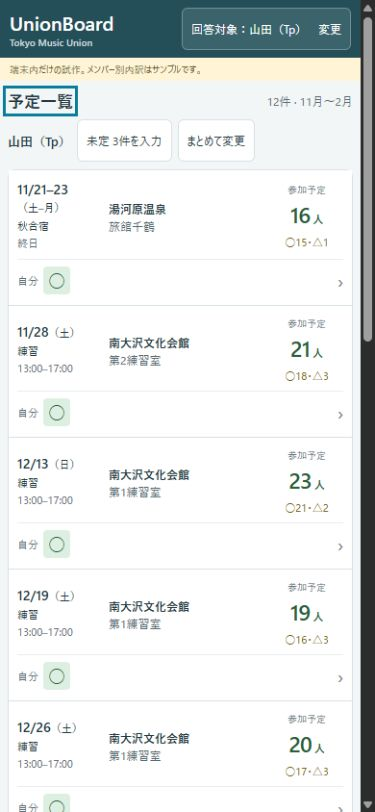
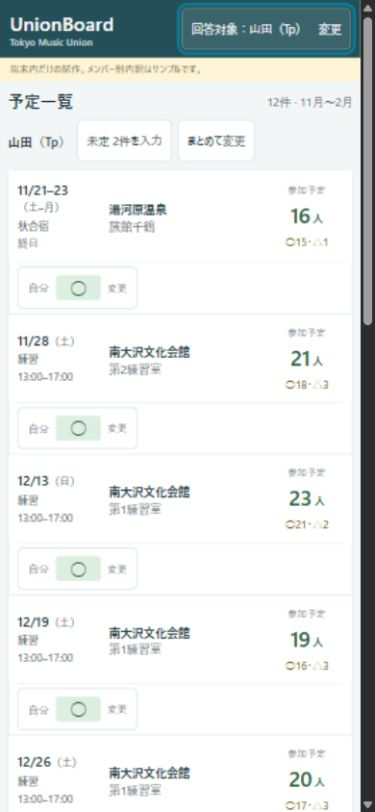
自分の回答から選択と日別編集を直接開く

diff --git a/docs/prototypes/mobile-study/v4/index.html b/docs/prototypes/mobile-study/v4/index.html
@@ -3,7 +3,9 @@
 :root{font:16px system-ui,'Yu Gothic',sans-serif;color:#233942;background:#f3f6f7;--ink:#254f58;--line:#d7e1e4;--yes:#dcefe1;--late:#fff0ba;--no:#f6dbe2;--unknown:#eceff2}*{box-sizing:border-box}[hidden]{display:none!important}body{margin:0;min-block-size:100dvh;overflow-wrap:anywhere}button,input,select,textarea{font:inherit;color:inherit}button,select{min-inline-size:44px;min-block-size:44px;border:1px solid var(--line);border-radius:6px;background:#fff;padding:7px 9px}button{cursor:pointer}button:disabled{opacity:.5;cursor:default}:where(a,button,input,select,textarea,[tabindex]):focus-visible{outline:3px solid #087e9a;outline-offset:2px}p{line-height:1.6;margin:6px 0}h1,h2,h3{margin:0;text-wrap:balance}h1{font-size:20px}h2{font-size:17px}h3{font-size:15px}header{background:var(--ink);color:white;display:flex;justify-content:space-between;align-items:center;gap:7px;padding:8px max(10px,env(safe-area-inset-right,0px)) 8px max(10px,env(safe-area-inset-left,0px))}header small{display:block;font-size:10px;color:#c9dadd}header button{background:#3b636c;border-color:#708f97;color:white;font-size:12px;max-inline-size:62%}.sample{font-size:10px;background:#fff4d5;color:#695b31;margin:0;padding:4px 10px}main{max-inline-size:850px;margin:auto;padding:0 8px 28px;container:board / inline-size}.modes{display:flex;gap:5px;margin:9px 0}.modes button{flex:1;font-size:13px;font-weight:700}.modes [aria-pressed=true]{background:#e2edef;border:2px solid var(--ink)}.heading,.panel-head,.crumb{display:flex;align-items:center;justify-content:space-between;gap:5px;margin:10px 0 7px}.muted{font-size:12px;color:#586c75}.toolbar,.links{display:flex;gap:6px;align-items:center;flex-wrap:wrap;margin:8px 0}.toolbar button,.links button,.links a{font-size:12px}.toolbar strong{font-size:13px}.primary{background:var(--ink);color:white;border-color:var(--ink)}.schedule{width:100%;table-layout:fixed;border-collapse:separate;border-spacing:0;background:white;border:1px solid var(--line);border-radius:8px;font-size:12px}.schedule caption{text-align:start;font-size:11px;color:#5d7079;caption-side:bottom;padding:6px 0}.schedule thead th{position:sticky;inset-block-start:0;background:#e8eff1;z-index:3;font-size:11px}.schedule th,.schedule td{text-align:start;vertical-align:middle;border-bottom:1px solid var(--line);padding:9px 5px}.schedule tbody th{font-weight:400}.schedule th:first-child{width:96px}.schedule th.count-col{width:78px;text-align:center}.schedule th.self-col{width:57px;text-align:center}.date{font-size:15px;font-weight:750;line-height:1.3}.weekday{font-size:11px;font-weight:400}.event-title{font-size:11px;line-height:1.3;margin-top:4px}.time{font-size:11px;color:#52666e;margin-top:2px;line-height:1.5}.place{font-size:12px;font-weight:650;line-height:1.5}.room{display:block;font-size:12px;font-weight:400;color:#536970}.schedule .count-cell{padding:3px}.count-button{width:100%;border:0;background:none;padding:4px 2px;min-block-size:64px;line-height:1.1}.count-main{display:block;font-size:24px;font-weight:750;letter-spacing:-.04em;color:#295e3a}.count-main small{font-size:11px;font-weight:500;letter-spacing:0}.count-sub{display:block;font-size:11px;color:#76580a;margin-top:6px}.count-caption{display:block;font-size:10px;color:#5c747a;margin-top:5px}.self-cell{padding:4px!important;text-align:center!important}.self-button{font-size:22px;inline-size:47px;min-block-size:48px;padding:2px;border-color:#b5cad0}.self-button.unselected{font-size:11px}.self-heading{border:0;background:none;font-size:10px;line-height:1.4;padding:0;width:100%}.performer th:first-child{width:83px}.performer .date{font-size:14px}.performer th.count-col{width:66px}.performer .count-main{font-size:22px}.selected-row>th,.selected-row>td{background:#edf4f4}.expanded-cell{padding:0!important;background:#f3f8f8}.panel{padding:10px 9px;border-block-start:2px solid #638e97}.panel-head{align-items:start;margin-top:0}.panel-head h3{margin-top:7px}.panel-head button{font-size:12px;flex-shrink:0}.detail-note{font-size:11px;color:#60757d;margin:7px 0}.part-list{margin:6px 0 10px}.part-row{display:grid;grid-template-columns:76px 1fr;align-items:center;background:white;border-bottom:1px solid var(--line)}.part-row dt{padding:0 5px}.part-row dt button{width:100%;text-align:start;border:0;background:none;padding:4px;font-size:14px}.part-row dt small{font-size:10px;color:#60757d}.part-row dd{display:grid;grid-template-columns:repeat(4,1fr);gap:3px;margin:0;padding:5px 5px 5px 0}.stat{display:inline-flex;align-items:center;justify-content:center;gap:3px;padding:6px 3px;border-radius:4px;font-size:13px;min-block-size:34px}.yes{background:var(--yes);color:#2a5938}.late{background:var(--late);color:#6d530c}.no{background:var(--no);color:#79344b}.unknown{background:var(--unknown);color:#56616c}.member-list{list-style:none;margin:6px 0;padding:0}.member-list li{display:flex;align-items:center;justify-content:space-between;gap:8px;background:white;padding:3px 6px;border-bottom:1px solid var(--line)}.member-list button{border:0;background:none;text-align:start;font-size:13px}.answer{font-size:13px;padding:5px 9px;border-radius:4px}.event-summary{background:white;padding:12px;border:1px solid var(--line);border-radius:8px;margin-bottom:8px}.event-summary h2{font-size:20px}.event-summary .place{font-size:14px;margin-top:6px;display:block}.counts{display:flex;gap:6px;flex-wrap:wrap;margin-top:8px}.crumb{justify-content:start}.crumb button{font-size:12px}.links{margin-top:14px}.links a{display:inline-flex;align-items:center;min-block-size:44px;padding:6px 8px;color:#315d69}.legend{font-size:11px;color:#566b74;line-height:1.7;margin:8px 0}.lab{margin-top:18px;border-top:1px dashed var(--line);padding-top:6px}.lab summary{min-block-size:44px;display:flex;align-items:center;cursor:pointer;font-size:12px}.lab label{display:flex;align-items:center;gap:7px;font-size:12px;margin:7px 0}.lab select{flex:1;max-inline-size:220px}.status{font-size:12px;color:#2c6251;line-height:1.5}.status:not(:empty){background:#e7f1e8;padding:7px;margin:7px 0}.save-note{font-size:11px;background:#fff2cd;padding:7px}.skip{position:absolute;inset-block-start:-120px;inset-inline-start:7px;z-index:30;background:white;padding:12px}.skip:focus{inset-block-start:3px}dialog{width:calc(100% - 20px);max-inline-size:550px;max-block-size:90vh;max-block-size:90dvh;border:0;border-radius:12px;padding:0;color:inherit;box-shadow:0 10px 45px #153b4b40}dialog[open]{display:flex;flex-direction:column}dialog:modal{overscroll-behavior:contain}dialog::backdrop{background:#193d50a3;overflow:hidden;overscroll-behavior:contain}.dialog-head{display:flex;justify-content:space-between;align-items:center;gap:8px;padding:11px 12px 7px;flex-shrink:0}.dialog-head h2{font-size:17px}.dialog-head button{font-size:12px;flex-shrink:0}.dialog-body{overflow:auto;overscroll-behavior:contain;padding:0 12px 12px;min-block-size:0}.field{display:grid;gap:5px;margin:10px 0}.field label{font-size:13px;font-weight:650}.field select{width:100%}.check{display:flex;align-items:center;gap:7px;min-block-size:44px;font-size:13px}input[type=checkbox]{width:23px;height:23px;accent-color:var(--ink)}.editor-row{border:0;border-bottom:1px solid var(--line);margin:0;padding:12px 0}.editor-row legend{font-size:15px;font-weight:700;padding:0}.editor-meta{display:flex;justify-content:space-between;align-items:start;gap:4px;font-size:11px;margin:3px 0 7px;line-height:1.5}.editor-meta strong{font-weight:500}.choices{display:grid;grid-template-columns:repeat(4,1fr);gap:5px}.choices button{font-size:20px;padding:4px;min-block-size:47px;min-inline-size:44px}.choices button[aria-pressed=true]{outline:2px solid var(--ink);outline-offset:-3px;font-weight:750}.choices small{display:block;font-size:10px;font-weight:400}.editor-row.changed{background:#fffbef}.dialog-foot{border-top:1px solid var(--line);padding:8px 12px max(8px,env(safe-area-inset-bottom,0px));background:white;display:flex;align-items:center;justify-content:space-between;gap:6px;flex-wrap:wrap;flex-shrink:0}.dialog-foot button{font-size:13px}.dialog-foot span{font-size:12px}.editor-filter{display:flex;gap:5px;align-items:center;flex-wrap:wrap;margin:5px 0 9px}.editor-filter button{font-size:12px}.editor-filter [aria-pressed=true]{background:#e1edef;border-color:#5c858e}textarea{width:100%;min-block-size:90px;font-size:16px;padding:9px;border:1px solid var(--line);border-radius:6px}.comment{font-size:13px;white-space:pre-wrap;padding:8px 0;border-bottom:1px solid var(--line)}.matrix-wrap{max-block-size:55vh;overflow:auto;border:1px solid var(--line);border-radius:6px;overscroll-behavior:contain;scroll-padding-inline-start:124px}.matrix{border-collapse:separate;border-spacing:0;font-size:12px;background:white}.matrix th,.matrix td{border-bottom:1px solid var(--line);border-right:1px solid var(--line);padding:5px;text-align:center;min-inline-size:32px}.matrix thead th{position:sticky;top:0;background:#e7eef0;z-index:2;font-size:10px}.matrix tbody th{position:sticky;left:0;background:white;min-inline-size:124px;max-inline-size:124px;z-index:1;font-size:10px;text-align:start}.matrix thead th:first-child{left:0;z-index:4}.matrix th button{font-size:10px;border:0;padding:1px;background:none;min-inline-size:44px}.matrix td{font-size:15px}.matrix caption{text-align:start;padding:6px;font-size:11px;color:#566b73}.person-table{border-collapse:collapse;width:100%;font-size:12px}.person-table td,.person-table th{border-bottom:1px solid var(--line);padding:8px;text-align:start}.person-table th{font-weight:500}.person-table td:last-child{font-size:19px;text-align:center}.person-table caption{text-align:start;font-size:11px;padding:6px 0}.search{min-block-size:44px;width:100%;font-size:16px;border:1px solid var(--line);border-radius:6px;padding:8px}.people-find{list-style:none;margin:5px 0;padding:0}.people-find li{border-bottom:1px solid var(--line)}.people-find button{width:100%;text-align:start;border:0}@container board (inline-size > 650px){.schedule th:first-child,.performer th:first-child{width:150px}.schedule th.count-col{width:120px}.schedule th.self-col{width:90px}.date,.performer .date{font-size:17px}.place,.room,.performer .place,.performer .room{font-size:14px}.event-title,.time,.performer .time{font-size:12px}.part-list{max-inline-size:520px}.schedule th,.schedule td{padding:10px}.count-button{max-inline-size:100px}.self-heading{font-size:12px}}@container board (inline-size < 330px){.schedule th:first-child{width:89px}.schedule th.count-col{width:68px}.performer th:first-child{width:76px}.performer th.count-col{width:59px}.performer th.self-col{width:51px}.schedule th,.schedule td{padding:8px 3px}.place,.room{font-size:11px}.date{font-size:14px}.self-button{inline-size:44px}.count-main{font-size:22px}.part-row{grid-template-columns:64px 1fr}.stat{font-size:12px;padding-inline:2px}}@media(forced-colors:active){.choices [aria-pressed=true]{outline:3px solid Highlight}}@media(prefers-reduced-motion:reduce){*{scroll-behavior:auto!important}}
 
 .cassettes{list-style:none;padding:0;margin:8px 0;border:1px solid var(--line);border-radius:8px;background:white}.cassettes li+li{border-top:1px solid var(--line)}.cassette{display:grid;grid-template-columns:94px minmax(0,1fr) 82px 72px;align-items:center;gap:8px;width:100%;border:0;border-radius:0;text-align:start;background:white;padding:12px 10px;font-weight:400}.cassette:hover{background:#edf5f5}.cassette:focus-visible{outline-offset:-3px}.cassette-count{text-align:center}.cassette .count-caption{display:none}.cassette-self{display:flex;align-items:center;justify-content:end;gap:5px}.self-label{font-size:11px;color:#586c75}.cassette .self-button{display:inline-flex;align-items:center;justify-content:center;width:auto;min-width:26px;min-height:29px;border:0;border-radius:4px;font-size:18px;padding:2px 5px}.cassette .unselected{font-size:11px;background:#eceff2}.chevron{font-size:20px;color:#71838a}.cassette .place,.cassette .room{font-size:12px}.cassette .date{font-size:14px}.cassette .count-main{font-size:23px}.cassette .count-sub{white-space:nowrap}@container board (inline-size < 370px){.cassette{grid-template-columns:88px minmax(0,1fr) 76px;gap:7px;padding:11px 9px}.cassette-self{grid-column:1 / -1;justify-content:start;border-top:1px solid #e8edef;padding-top:7px;margin-top:1px}.cassette-self .chevron{margin-left:auto}.cassette .place,.cassette .room{font-size:12px}}
-.participant-label{font-size:10px;color:#587078;display:block;margin-bottom:3px}</style></head><body><a class="skip" href="#schedule-heading">予定一覧へ</a><header><h1>UnionBoard<small>Tokyo Music Union</small></h1><button id="identity-button">自分を選ぶ</button></header><p class="sample">端末内だけの試作。メンバー別内訳はサンプルです。</p><main id="app"></main><dialog id="dialog" aria-labelledby="dialog-title"><div class="dialog-head"><h2 id="dialog-title"></h2><button id="dialog-close" autofocus>閉じる</button></div><div class="dialog-body" id="dialog-body"></div><div class="dialog-foot" id="dialog-foot" hidden></div></dialog>
+.participant-label{font-size:10px;color:#587078;display:block;margin-bottom:3px}
+.cassette-wrap{position:relative}.cassette{padding-right:90px;grid-template-columns:94px minmax(0,1fr) 82px}.cassette>.chevron{display:none}.cassette-self{position:absolute;right:5px;top:50%;transform:translateY(-50%);border:1px solid var(--line);border-radius:6px;padding:5px;min-height:54px;min-width:72px;flex-wrap:wrap;justify-content:center;background:white}.cassette-self .self-label{width:100%;text-align:center}.cassette-self .self-button{font-size:18px;min-width:25px;min-height:25px;padding:1px 4px;border:0;border-radius:4px}.cassette-self .unselected{font-size:11px}.edit-hint{font-size:10px;color:#536d75}@container board (inline-size < 370px){.cassette-wrap{padding-bottom:54px}.cassette{padding-right:9px;grid-template-columns:88px minmax(0,1fr) 76px}.cassette-self{left:9px;right:auto;top:auto;bottom:5px;transform:none;min-height:44px;width:auto;gap:7px;padding:5px 10px;margin:0;border:1px solid var(--line)}.cassette-self .self-label{width:auto}.cassette-wrap:after{content:"";position:absolute;bottom:53px;left:9px;right:9px;border-top:1px solid #e8edef;pointer-events:none}}
+</style></head><body><a class="skip" href="#schedule-heading">予定一覧へ</a><header><h1>UnionBoard<small>Tokyo Music Union</small></h1><button id="identity-button">自分を選ぶ</button></header><p class="sample">端末内だけの試作。メンバー別内訳はサンプルです。</p><main id="app"></main><dialog id="dialog" aria-labelledby="dialog-title"><div class="dialog-head"><h2 id="dialog-title"></h2><button id="dialog-close" autofocus>閉じる</button></div><div class="dialog-body" id="dialog-body"></div><div class="dialog-foot" id="dialog-foot" hidden></div></dialog>
 <script>
 'use strict';
 const parts=[['Fl',4],['Cl',8],['Sax',3],['Hr',6],['Tp',5],['Tb',6],['Bass',4],['Perc',4]];
@@ -38,7 +40,7 @@ function countHTML(e){const c=count(e);return countStyle==='separate'?`<span cla
 function countLabel(e){const c=count(e);return `${eventName(e)} ${countStyle==='combined'?'参加予定'+(c[0]+c[1])+'人。':''}○出席${c[0]}人、△遅刻早退${c[1]}人。内訳を開く`;}
 function summary(e){const c=count(e);return `<section class="event-summary" aria-label="${eventName(e)}の概要"><h2>${events[e].date}（${events[e].week}） ${events[e].title}</h2><p class="muted">${events[e].time}</p>${place(e)}<div class="counts">${marks.map((v,i)=>`<span class="stat ${styles[i]}" data-summary="${e}:${i}">${v} ${fmt(c[i])}${c[i]?"人":""}</span>`).join('')}</div></section>`;}
 function panel(e){return `<section class="panel" id="panel-${e}" aria-labelledby="panel-title-${e}"><div class="panel-head"><h3 id="panel-title-${e}" tabindex="-1">${detailEvent===null?events[e].date+' '+events[e].title+'｜':''}${part?part==='all'?'全40人の回答':part+'の回答':'パート別の人数'}</h3>${detailEvent===null?`<button data-collapse="${e}">閉じる</button>`:''}</div><p class="detail-note">○出席／△遅刻・早退／×欠席／-未定・未回答。内訳はサンプル。</p>${part?`<div class="toolbar"><button data-back-parts="${e}">← パート別人数</button><strong>${part==='all'?'全員':part} ${members.filter(m=>part==='all'||m.part===part).length}人</strong></div><ul class="member-list">${members.filter(m=>part==='all'||m.part===part).map(m=>`<li><button data-person="${m.id}">${name(m.id)}</button><span class="answer ${statusClass(get(e,m.id))}" data-member-status="${e}:${m.id}">${get(e,m.id)} ${words[marks.indexOf(get(e,m.id))]}</span></li>`).join('')}</ul>`:`<div class="toolbar"><button data-part="all" data-for-event="${e}">全40人の○△×を見る</button></div><dl class="part-list">${parts.map(([p,n])=>`<div class="part-row"><dt><button data-part="${p}" data-for-event="${e}" aria-label="${p} ${n}人の回答を見る">${p} <small>${n}人 ›</small></button></dt><dd>${count(e,p).map((n,i)=>`<span class="stat ${styles[i]}" data-partstat="${e}:${p}:${i}" aria-label="${words[i]} ${n}人">${marks[i]} ${fmt(n)}</span>`).join('')}</dd></div>`).join('')}</dl>`}<div class="toolbar"><button data-comments="${e}">コメント ${data.comments[e].length}件</button>${self?`<button data-edit-one="${e}">${name(self)}の回答を変更</button>`:''}</div>${detailEvent===null?`<button data-collapse="${e}">内訳を閉じて予定一覧へ</button>`:''}</section>`;}
-function render(){const pending=self?events.filter((_,e)=>get(e,self)==='-').length:0;$('#identity-button').textContent=self?`回答対象：${name(self)}　変更`:'自分を選ぶ';document.title=detailEvent!==null?`${eventName(detailEvent)}｜UnionBoard試作`:'予定と自分の回答｜UnionBoard試作';if(detailEvent!==null){$('#app').innerHTML=`<div class="crumb"><button id="back-schedule">← 予定一覧</button></div>${summary(detailEvent)}${panel(detailEvent)}<p class="status" id="page-status" role="status"></p>`;return;}$('#app').innerHTML=`<div class="heading"><h2 id="schedule-heading" tabindex="-1">予定一覧</h2><span class="muted">12件 · 11月〜2月</span></div>${self?`<div class="toolbar"><strong>${name(self)}</strong><button id="edit-pending">${pending?'未定 '+pending+'件を入力':'全12日程を変更'}</button><button id="edit-all">まとめて変更</button></div>`:''}<div id="draft-notice"></div><p class="status" id="page-status" role="status"></p><ul class="cassettes" aria-label="予定・場所・参加人数・自分の回答">${events.map((ev,e)=>`<li><button class="cassette" id="event-row-${e}" data-open-event="${e}"><span class="cassette-date">${dateCell(e)}</span><span class="cassette-place">${place(e)}</span><span class="cassette-count" data-count="${e}">${countHTML(e)}</span><span class="cassette-self"><span class="self-label">自分</span><span data-self="${e}" class="self-button ${self?statusClass(get(e,self)):'unselected'}">${self?get(e,self):'未選択'}</span><span class="chevron" aria-hidden="true">›</span></span></button></li>`).join('')}</ul><p class="legend">参加予定＝○出席＋△遅刻/早退。同時に全員が揃うとは限りません。<br>カセットのどこを押しても、その日の詳細へ進みます。</p><div class="links"><button id="matrix-open">全12日程×40人の表</button><button id="people-open">人を探す</button></div><details class="lab"><summary>試作の説明・初期化</summary><div class="links"><button id="forget">回答対象の記憶を解除</button><button id="reset">試作を初期化</button><a href="./README.md">説明</a><a href="../v3/">前の試作</a></div><p class="muted">本人未選択でも予定を閲覧できます。自分の記号は表示用で、入力は詳細画面またはまとめて変更から行います。</p></details>`;}
+function render(){const pending=self?events.filter((_,e)=>get(e,self)==='-').length:0;$('#identity-button').textContent=self?`回答対象：${name(self)}　変更`:'自分を選ぶ';document.title=detailEvent!==null?`${eventName(detailEvent)}｜UnionBoard試作`:'予定と自分の回答｜UnionBoard試作';if(detailEvent!==null){$('#app').innerHTML=`<div class="crumb"><button id="back-schedule">← 予定一覧</button></div>${summary(detailEvent)}${panel(detailEvent)}<p class="status" id="page-status" role="status"></p>`;return;}$('#app').innerHTML=`<div class="heading"><h2 id="schedule-heading" tabindex="-1">予定一覧</h2><span class="muted">12件 · 11月〜2月</span></div>${self?`<div class="toolbar"><strong>${name(self)}</strong><button id="edit-pending">${pending?'未定 '+pending+'件を入力':'全12日程を変更'}</button><button id="edit-all">まとめて変更</button></div>`:''}<div id="draft-notice"></div><p class="status" id="page-status" role="status"></p><ul class="cassettes" aria-label="予定・場所・参加人数・自分の回答">${events.map((ev,e)=>`<li><div class="cassette-wrap" id="event-row-${e}"><button class="cassette" data-open-event="${e}"><span class="cassette-date">${dateCell(e)}</span><span class="cassette-place">${place(e)}</span><span class="cassette-count" data-count="${e}">${countHTML(e)}</span><span class="chevron" aria-hidden="true">›</span></button><button class="cassette-self" data-edit-one="${e}" aria-label="${eventName(e)} ${self?name(self)+'の出欠を編集':'回答する人を選択'}"><span class="self-label">自分</span><span data-self="${e}" class="self-button ${self?statusClass(get(e,self)):'unselected'}">${self?get(e,self):'未選択'}</span><span class="edit-hint">変更</span></button></div></li>`).join('')}</ul><p class="legend">参加予定＝○出席＋△遅刻/早退。同時に全員が揃うとは限りません。<br>日程・場所・人数から詳細へ。「自分」は回答の選択・変更へ。</p><div class="links"><button id="matrix-open">全12日程×40人の表</button><button id="people-open">人を探す</button></div><details class="lab"><summary>試作の説明・初期化</summary><div class="links"><button id="forget">回答対象の記憶を解除</button><button id="reset">試作を初期化</button><a href="./README.md">説明</a><a href="../v3/">前の試作</a></div><p class="muted">本人未選択でも予定を閲覧できます。「自分」を押すと、未選択ならメンバー選択後にその日の出欠編集、選択済みなら直接その日の出欠編集を開きます。</p></details>`;}
 function refresh(){document.querySelectorAll('[data-count]').forEach(b=>{const e=+b.dataset.count;b.innerHTML=countHTML(e);if(b.matches('button'))b.setAttribute('aria-label',countLabel(e));});document.querySelectorAll('[data-self]').forEach(b=>{const e=+b.dataset.self;if(self){b.textContent=get(e,self);b.className='self-button '+statusClass(get(e,self));b.setAttribute('aria-label',`${eventName(e)} ${name(self)}の回答 ${get(e,self)} を編集`);}});document.querySelectorAll('[data-summary]').forEach(el=>{const[e,i]=el.dataset.summary.split(':').map(Number);el.textContent=`${marks[i]} ${fmt(count(e)[i])}人`;});if($('#edit-pending')&&self){const n=events.filter((_,e)=>get(e,self)==='-').length;$('#edit-pending').textContent=n?'未定 '+n+'件を入力':'全12日程を変更';}document.querySelectorAll('[data-partstat]').forEach(el=>{const[e,p,i]=el.dataset.partstat.split(':');const n=count(+e,p)[+i];el.textContent=marks[+i]+' '+fmt(n);el.setAttribute('aria-label',words[+i]+' '+n+'人');});document.querySelectorAll('[data-member-status]').forEach(el=>{const[e,id]=el.dataset.memberStatus.split(':');const v=get(+e,id);el.className='answer '+statusClass(v);el.textContent=v+' '+words[marks.indexOf(v)];});document.querySelectorAll('[data-comments]').forEach(b=>b.textContent='コメント '+data.comments[+b.dataset.comments].length+'件');}
 function show(title,body,foot=''){if($('#dialog').open)$('#dialog').close();$('#dialog-title').textContent=title;$('#dialog-body').innerHTML=body;$('#dialog-foot').innerHTML=foot;$('#dialog-foot').hidden=!foot;$('#dialog').showModal();}
 function hasUnsaved(){return draftCount()||Object.keys(commentDrafts).length;}

diff --git a/docs/prototypes/mobile-study/v4/README.md b/docs/prototypes/mobile-study/v4/README.md
@@ -3,7 +3,7 @@
 [試作を開く](http://localhost:8765/v4/)
 
 - タブを撤去し、日程・場所・参加予定人数（○＋△）・○△内訳・自分の回答を常に表示。
-- カセット全体が1つのボタン。自分の記号も別ボタンにせず、同じ詳細画面へ進む。
+- 日程・場所・人数は詳細画面へ。「自分」は独立したボタンで、未選択ならメンバー選択後に押した日程の編集へ、選択済みなら直接その日の編集モーダルを開く。
 - 表示領域370px未満では自分の回答を下段へ配置。幅が足りる場合は横並び。
 - 未選択なら自分：未選択。選択・任意の端末記憶・詳細からの出欠変更・未定の一括入力は維持。
 - v3とは保存キーを分離。本体・本番は変更せず、保存は端末内のみ。個人別内訳はサンプル。
@@ -12,7 +12,7 @@
 
 ## 検証
 
-320・360・390pxは2段、430・800pxは横並びで、ページ横はみ出しなし・12カセット・内部ボタン重複なしを確認。場所部分と自分の記号部分のどちらからも同じ詳細へ遷移。山田の2/6を○へ保存し、参加予定9→10と自分の記号の更新を確認しました。実機操作は未確認です。
+320・360・390pxは2段、430・800pxは横並びで、ページ横はみ出しなし・12カセット・内部ボタン重複なしを確認。日程部分は詳細へ遷移。「自分」は未選択→山田選択→2/6のみの編集、選択済み→2/14のみの編集を操作確認。山田の2/6を○へ保存し、参加予定9→10と自分の記号の更新を確認しました。実機操作は未確認です。
 
 [390px](./390px.jpg)／[800px](./800px.jpg)
 
